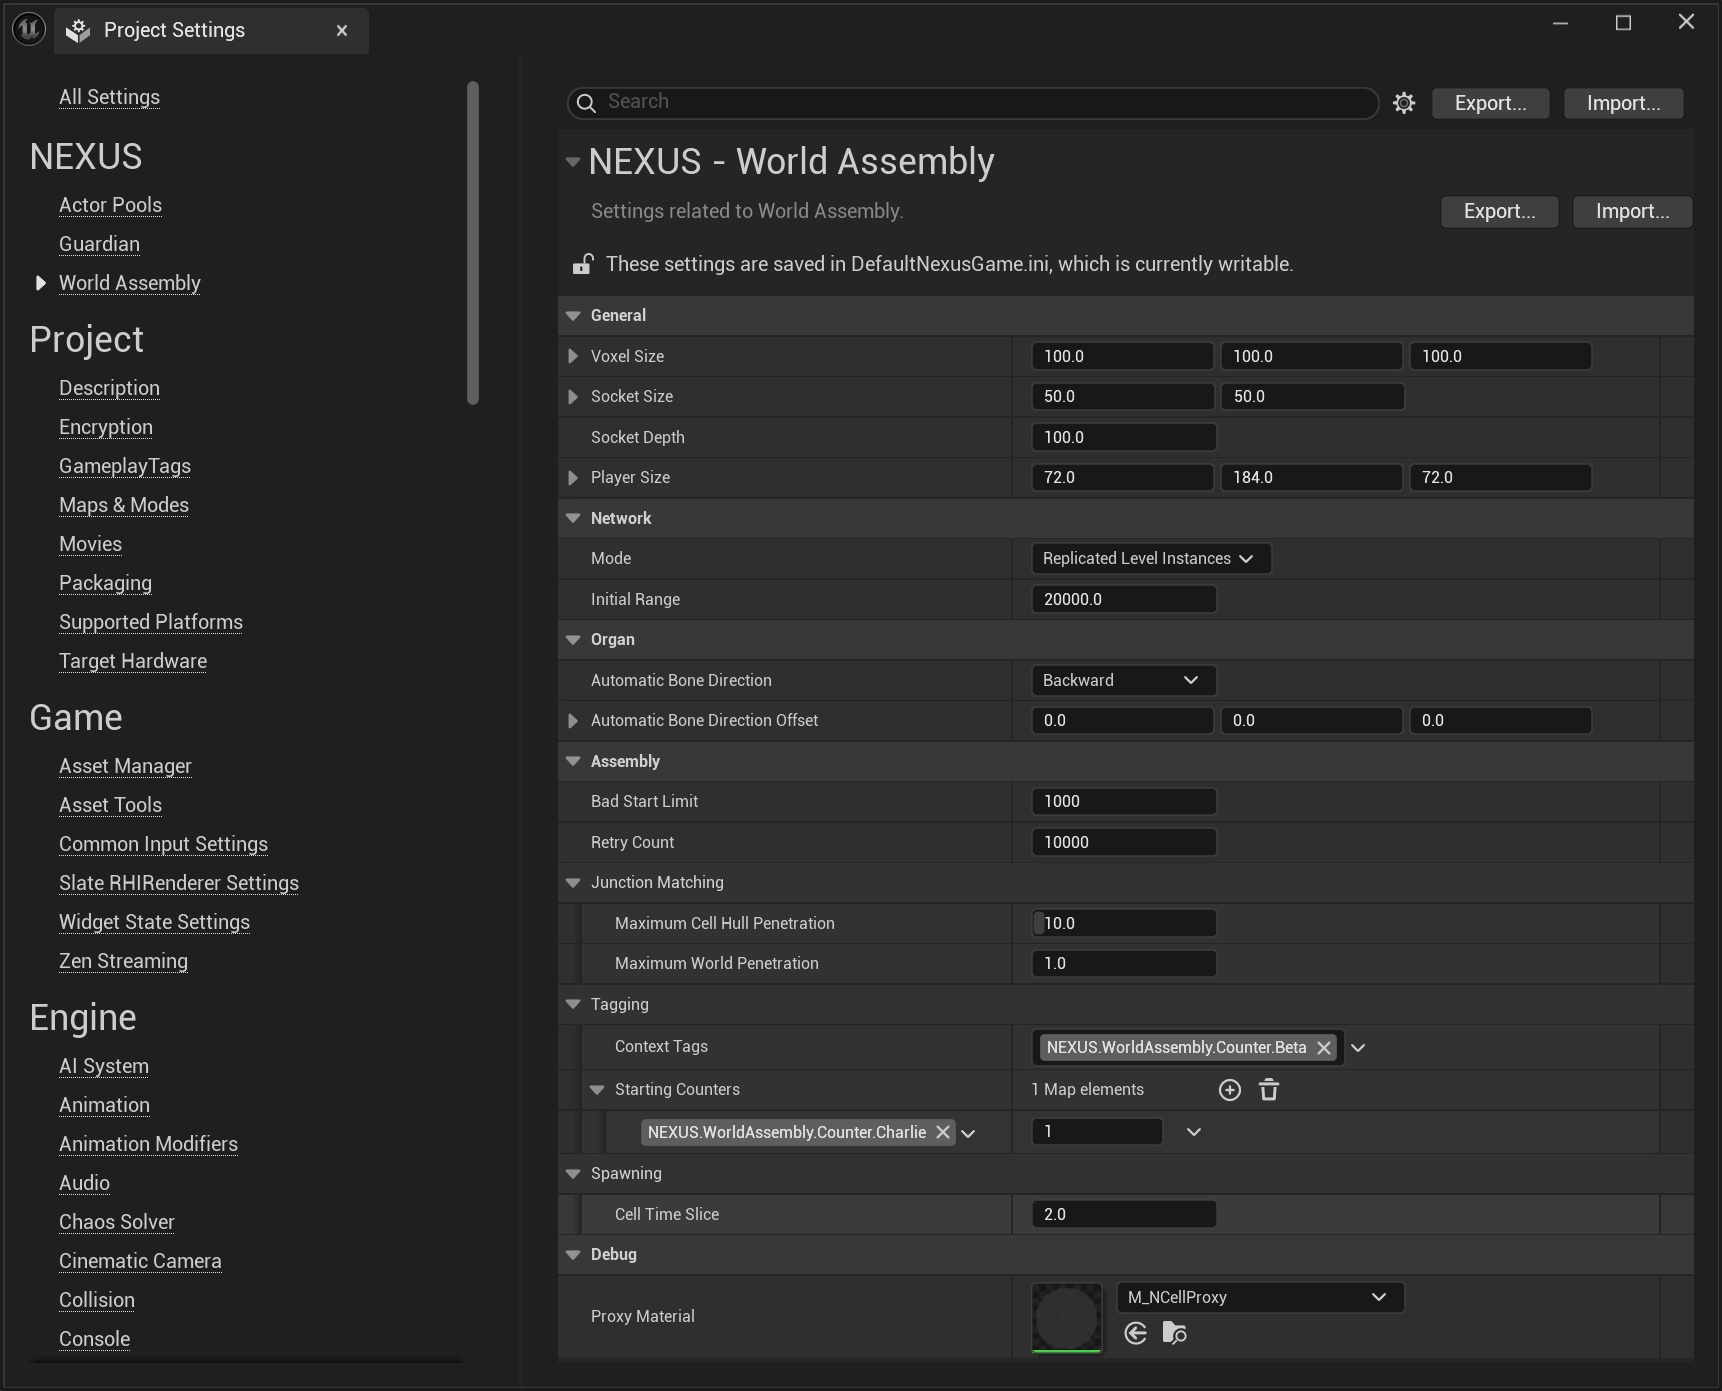
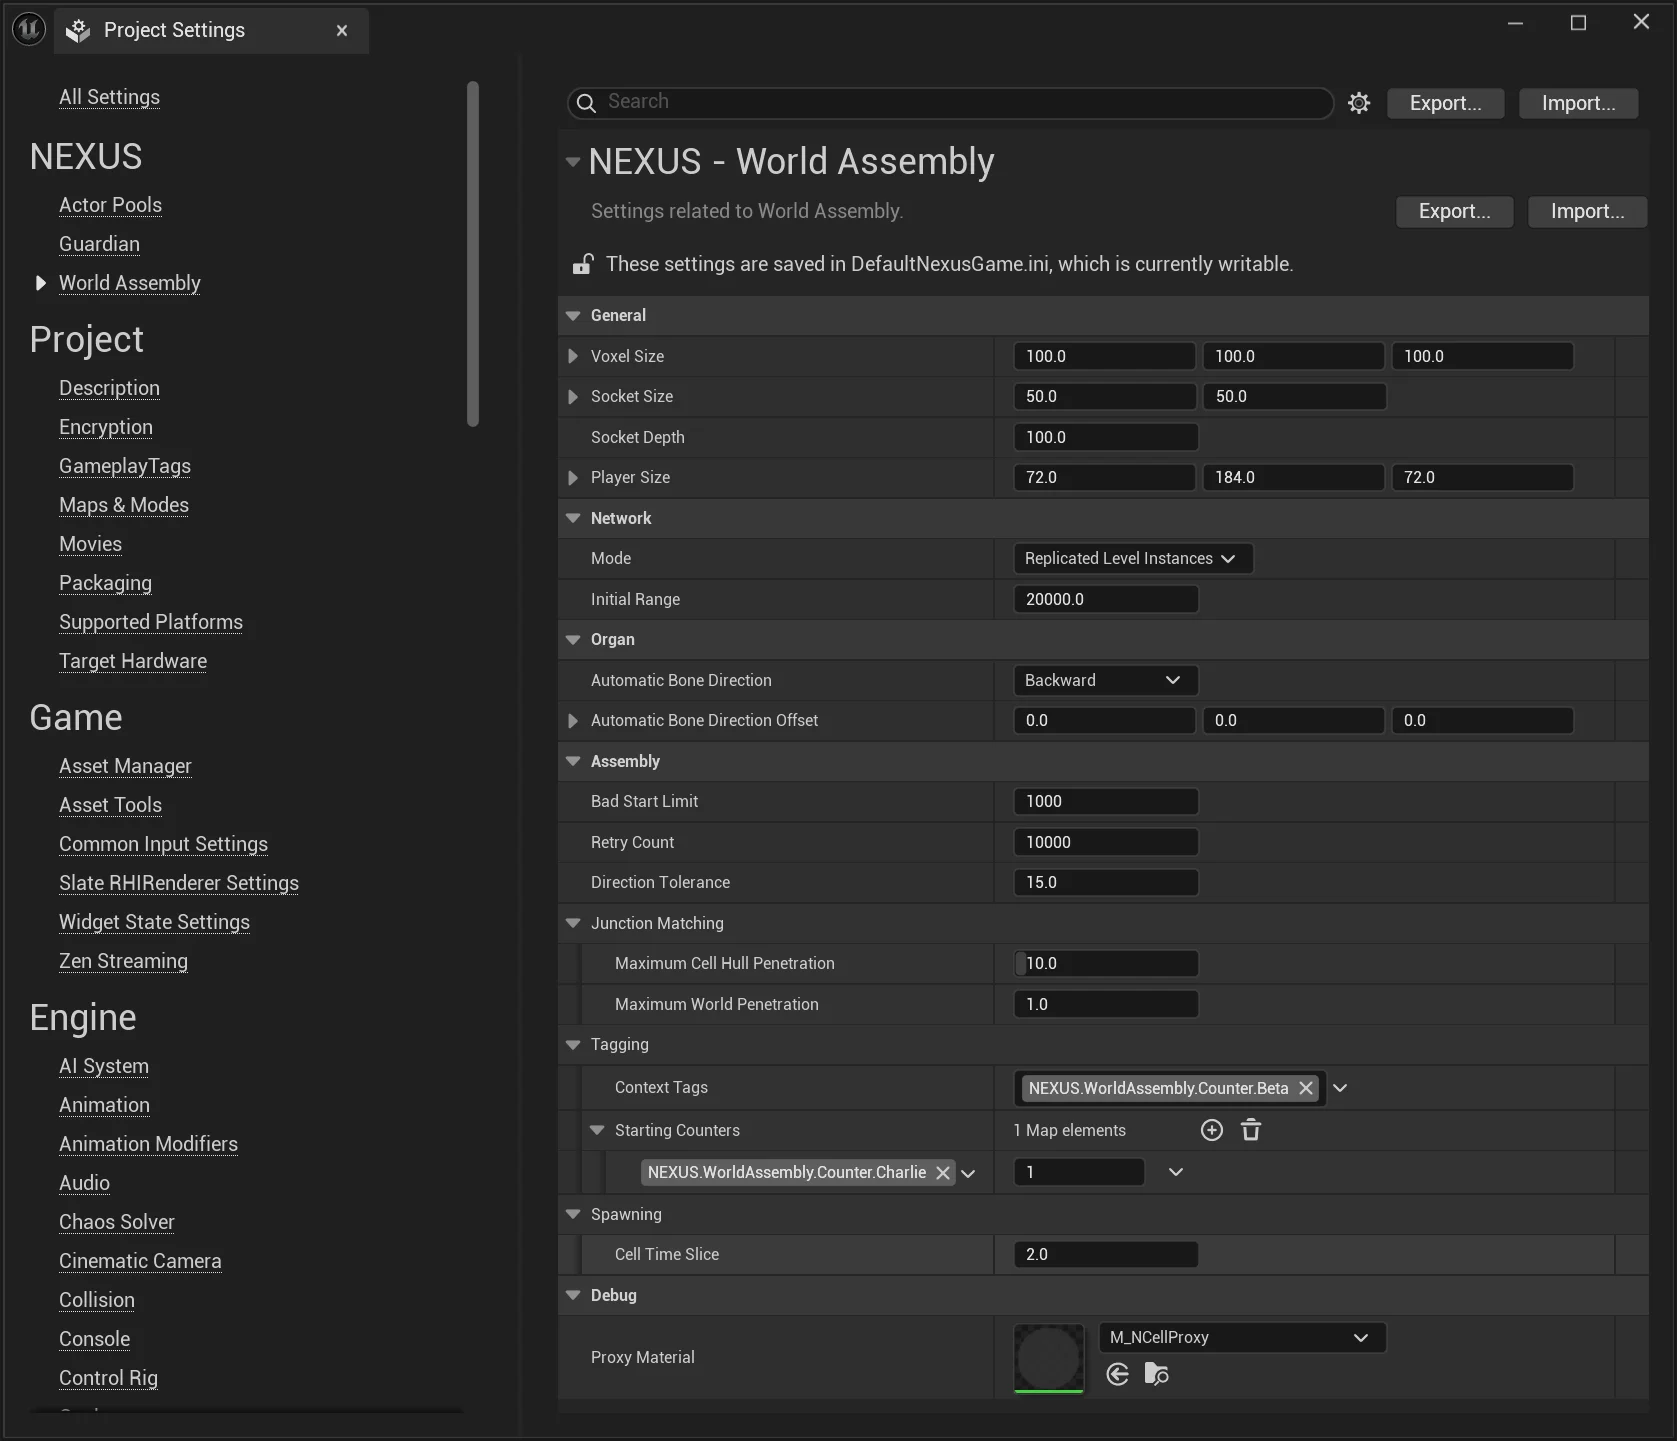
Updates to docs

diff --git a/docs/plugins/world-assembly/feature-matrix.md b/docs/plugins/world-assembly/feature-matrix.md
@@ -1,7 +1,7 @@
 ---
 description: A breakdown of World Assembly features, their availability, and the release each is targeted for.
 sidebar_position: 7
-tags: [0.3.0]
+tags: [0.3.0, 0.3.1]
 ---
 
 # Feature Matrix
@@ -15,19 +15,14 @@ tags: [0.3.0]
 | Rotational Matching | Constraint-based matching of junctions allows for non-uniform build out. |
 | Runtime Regeneration | Support for being able to tear down and regenerate at runtime. |
 | Network Support | Replicated `ANCellLevelInstance` support, with client status (`ANWorldAssemblyRelay`) support. |
-| Tag-Based Rules | Supports `Unique` and `RequireAny` groupping tags (as well as user-defined groups), and behavioral tags `Starter`, `StarterOnly`, `NotStarter`, `Finisher`, `FinisherOnly`, `NotFinisher`. |
+| Tag-Based Rules | Supports `Unique`, `RequireAny`, and `BadNeighbors` grouping tags (as well as user-defined groups), and behavioral tags `Starter`, `StarterOnly`, `NotStarter`, `Finisher`, `FinisherOnly`, `NotFinisher`. |
+| Context Tag Rules | [Cell](types/cell.md) placement can require or contribute `Context Tags`, enabling lock-key style gating determined during generation. A placed cell's `Added Context Tags` accumulate and are queryable via `INCellInitialized`. |
+| Tag Counters | Associates `int32` values with tags, seeded per-operation (or from project settings), filterable for cell selection (`Tag Counter Constraints`) and mutated on placement (`Tag Counter Operations`). The value never drops below `0`. |
 | Count-Based Rules | `MaximumCount` limiter inside of an [ANOrganVolume](types/organ-volume.md). |
-| Graph-Based Rules | `MinimumNodeDepth` allowing for ensuring a Cell is not placed too soon on a graph, with `MinimumNodeDistance` limiting proximity to itself. |
+| Graph-Based Rules | `MinimumNodeDepth` / `MaximumNodeDepth` bound how far from the start a Cell may be placed, with `MinimumNodeDistance` limiting proximity to itself. |
+| Directional Constraint | A [Cell](types/cell.md) can be restricted to a compass heading relative to the organ's start point, enforced within the project/operation `Direction Tolerance`. |
 | Weighting | Both `UNCell` and `UNCellJunctionComponent` support weighting their selection for usage. |
 | Initialization Callback | `INCellInitialized`-implementing `AActors` in a [Cell](types/cell.md) receive a callback when they are placed in the the world (with context about the assembly), but before `BeginPlay`. |
-
-## In Main
-
-| Feature | Description | Release |
-| --- | --- | --- |
-| Context Tag Required | A tag-based matching system allowing for [Cell](types/cell.md) placement to occur after another [Cell](types/cell.md). Cell's can add to `Context Tags`, which can then be used as requirements. This will allow for lock-key gameplay determined during build (still possible to do post-generation). | [0.3.1 #219](https://github.com/dotBunny/NEXUS/issues/219)|
-| `BadNeighbors` | A tag-based matching system creating rules where two [Cell](types/cell.md)s cannot connect to each other. | [0.3.1 #212](https://github.com/dotBunny/NEXUS/issues/212) |
-| Tag Counter | System to associate `int32` values to tags, initially to pass in a level to a tag, which will be queriable via `INCellInitialized`, as well as filterable (greater than, less than, equal) for for selection for placement of [Cells](types/cell.md). Operations applied to the counters based on cell placement. The value never drops below `0`. | [0.3.1 #241](https://github.com/dotBunny/NEXUS/issues/241) |
 
 ## Planned
 

diff --git a/docs/plugins/world-assembly/types/cell.md b/docs/plugins/world-assembly/types/cell.md
@@ -61,12 +61,16 @@ The `UNCellRootComponent` represents the data which is going to get mirrored int
 
 ### Rotation Constraints
 
+The cell exposes a dual-interval `FNRotationConstraints` set. The _matching_ interval constrains a candidate rotation's own pose; the _difference_ interval constrains the delta between two rotations. Either interval can be enabled independently.
+
 | Setting | Type | Description | Default |
 |---|---|---|---|
-| Enforce Matching? | `bool` | | `true` |
-| Minimum Matching Rotation | `FRotator` |  | `(0,0,-180.f)` | 
-| Maximum Matching Rotation | `FRotator` |  | `(0,0,180.f)` |
-| Enforce Difference? | `bool` | | `false` |
+| Enforce Matching? | `bool` | Enables the matching-interval test on the candidate rotation itself. | `true` |
+| Minimum Matching Rotation | `FRotator` | Lower bound (inclusive) of the matching interval. | `(0,0,-180.f)` | 
+| Maximum Matching Rotation | `FRotator` | Upper bound (inclusive) of the matching interval. | `(0,0,180.f)` |
+| Enforce Difference? | `bool` | Enables the difference-interval test on the delta between two rotations. | `false` |
+| Minimum Difference Rotation | `FRotator` | Lower bound (inclusive) of the difference interval. | `(0,0,-180.f)` |
+| Maximum Difference Rotation | `FRotator` | Upper bound (inclusive) of the difference interval. | `(0,0,180.f)` |
 
 
 ### Hull Settings

diff --git a/docs/plugins/world-assembly/types/tissue.md b/docs/plugins/world-assembly/types/tissue.md
@@ -61,11 +61,14 @@ A common requirement when generating gameplay spaces is ensuring that there is s
 | Assembly Tags | Tags used to define behavior during the assembly process, pulled from `NEXUS.WorldAssembly.*`. _See [Tagging](../tagging.md#assembly-gameplay-tags)_ | `(Empty)` |
 | Added Context Tags | Tags which get accumulated based on `UNCell` usage, and are provided for context post-assembly. Initial `Context Tags` are established by the `FNAssemblyOperationSettings` used. Default settings are also available in the `Project Settings`. Accessible by `INCellInitialized` interface via the `ANCellLevelInstance`. | `(Empty)` |
 | Required Context Tags | Tags that must exist in the accumulated `Context Tags` of the assembly operation for this cell to be placable.| `(Empty)` |
-| Tag Counter Constriants | Requirements for this cell to be made available for selection. If a `FGameplayTag` is not part of the `TagCounter` a constraint will fail. | `(Empty)` |
+| Tag Counter Constraints | Requirements for this cell to be made available for selection. If a `FGameplayTag` is not part of the `TagCounter` a constraint will fail. | `(Empty)` |
 | Tag Counter Operations | If a cell is placed the operations will be applied against the `Tag Counters` of the assembly operation. This is only replicated outside of the organ at the end of the pass. If ther resulting numerical value is less then zero, it will be clamped to `0`. | `(Empty)` |
 | Minimum Count | ***NOT IMPLEMENTED*** Only used to determine specific-unique case exclusion (_not tag related_). | `-1` |
 | Maximum Count | The maximum number of times this cell can be used in the generated `FNAssemblyGraph`. (_-1 no constraint_) | `-1` | 
 | Minimum Node Distance | The minimum number of cell links away this cell must be to be used again. | `1` | 
-| Minimum Node Depth | The minimum number of nodes away from the start when this can be used. | `0`  |
+| Minimum Node Depth | The minimum number of cell hops away from the start cell before this cell may be used. The start cell is hop `0`, its direct neighbors hop `1`, etc. (_0 no constraint_) | `0`  |
+| Maximum Node Depth | The maximum number of cell hops away from the start cell at which this cell may still be used. (_-1 no constraint_) | `-1`  |
+| Has Direction Constraint | When enabled, this cell may only be placed toward `Direction Constraint` relative to the organ's start point. | `false` |
+| Direction Constraint | The compass heading (from the start point out to the candidate's placement) this cell is restricted to while `Has Direction Constraint` is set. Enforced within the project/operation `Direction Tolerance`. _See [Project Settings](../project-settings.md)_ | `North` |
 | Weighting | Relative weight for random selection during generation. | `1`| 
 | Cell | A soft-object reference to the `UNCell` asset that will be consumed. | `n/a` | 

diff --git a/docs/getting-started/faq.md b/docs/getting-started/faq.md
@@ -26,7 +26,7 @@ Testing is done against the current state of the repository, not bespoke version
 
 This indicates that these options are saved locally to the developer's machine and are not pushed upon other team members. While default values are set up and spread in the project, the local developer overrides them however they please.
 
-## What is the deal with the Blueprint functions whose DisplayName starts with `?`
+## What is the deal with the Blueprint functions whose DisplayName ends with `?`
 
 These are Blueprint functions that return a `bool` value, but instead of treating it as a traditional return value, the Blueprint node is modified to have two output pins (`true`/`false`). These are often direct clones of an existing function, but with their return context altered.
 

diff --git a/docs/plugins/world-assembly/project-settings.md b/docs/plugins/world-assembly/project-settings.md
@@ -45,6 +45,7 @@ From the `Edit > Project Settings` window, find the **World Assembly** section.
 | `Junction Matching > Maximum World Penetration` | The maximum depth of penetration a cell's convex hull can penetrate world geometry to make a junction connection. | `2.f` |
 | `Tagging > Context Tags` | Default `Context Tags` provided to every Assembly Operation. | `(empty)` |
 | `Tagging > Starting Counters` | Default `Tag Counters` provided to every Assembly Operation. | `(empty)` |
+| `Direction Tolerance` | How close the placement bearing must be to a cell's `Direction Constraint` heading (within this many degrees +/-) for the cell to remain a valid candidate. | `15.f` |
 | `Spawning > Cell Time Slice` | Frame-time goal limit when to split spawning cells to the next frame task (in milliseconds). | `2.f` |
 
 ### Debug